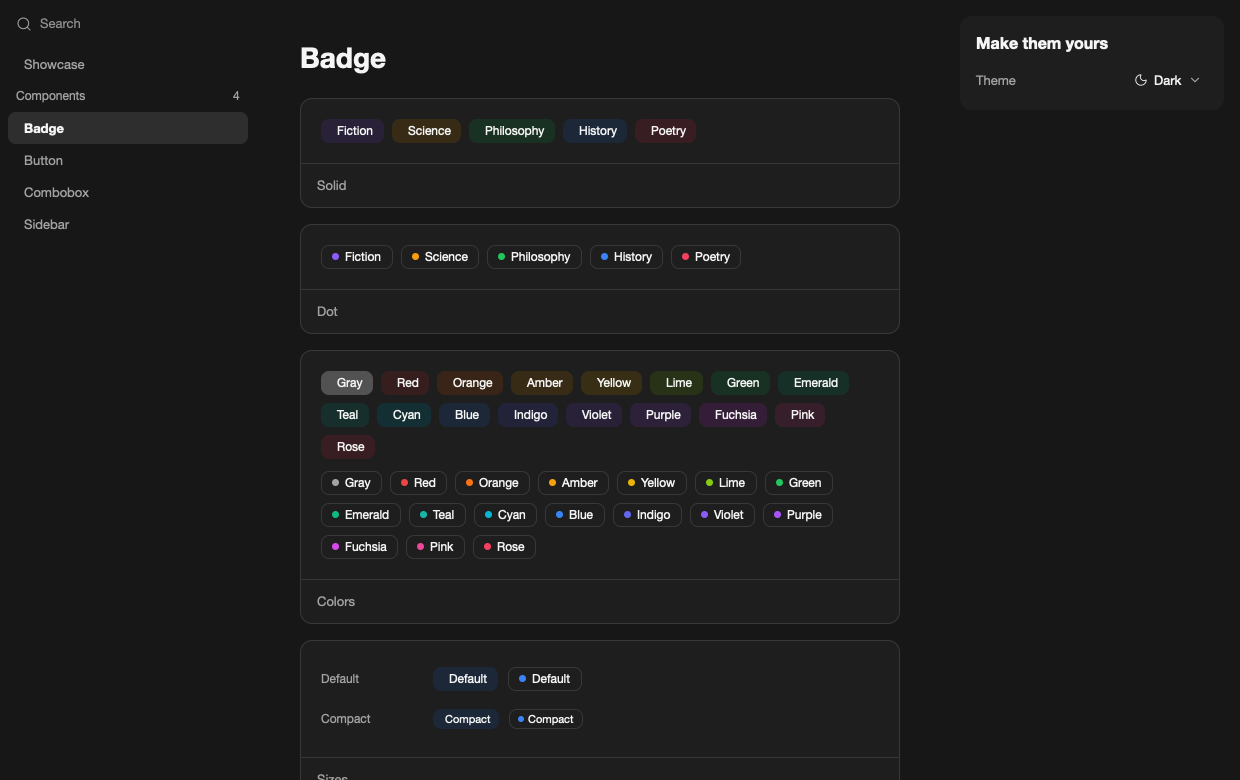
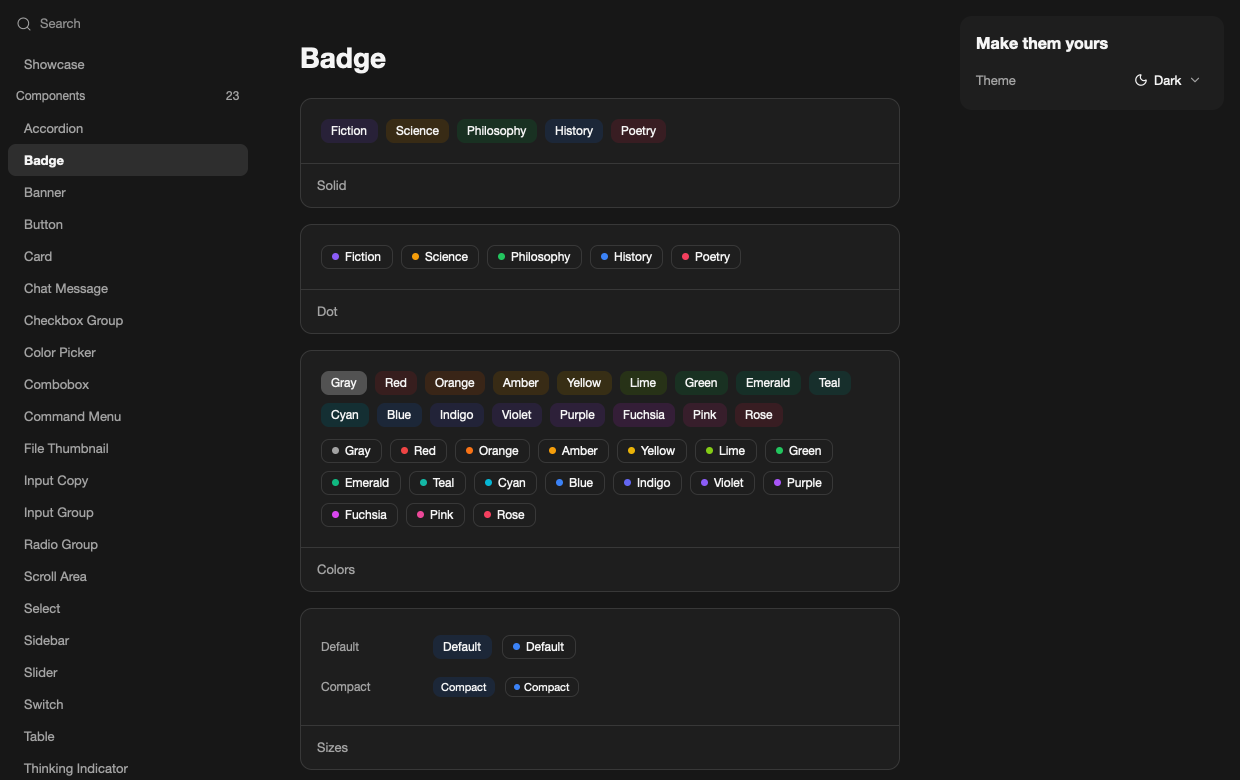
Badge: stop an empty Show marker eating the flex gap

diff --git a/src/components/badge.tsx b/src/components/badge.tsx
@@ -63,23 +63,8 @@ export function Badge(props: {
 			? color.mutedForeground
 			: hue();
 
-	return (
-		<div
-			testId={props.testId}
-			style={{
-				display: "flex",
-				flexDirection: "row",
-				alignItems: "center",
-				flexShrink: 0,
-				height: size().height,
-				paddingLeft: size().padX,
-				paddingRight: size().padX,
-				gap: size().gap,
-				borderRadius: radius.item,
-				backgroundColor: fill(),
-				...(solid() ? {} : { borderWidth: 1, borderColor: color.border }),
-			}}
-		>
+	const content = () => (
+		<>
 			<Show when={!solid()}>
 				<div
 					style={{
@@ -101,6 +86,28 @@ export function Badge(props: {
 			>
 				{props.children}
 			</text>
+		</>
+	);
+
+	return (
+		<div
+			testId={props.testId}
+			style={{
+				display: "flex",
+				flexDirection: "row",
+				alignItems: "center",
+				flexShrink: 0,
+				height: size().height,
+				paddingLeft: size().padX,
+				paddingRight: size().padX,
+				gap: size().gap,
+				borderRadius: radius.item,
+				backgroundColor: fill(),
+				...(solid() ? {} : { borderWidth: 1, borderColor: color.border }),
+			}}
+		>
+			{/* One fragment: a Show among siblings leaves an empty text node that eats a `gap`. */}
+			{content()}
 		</div>
 	);
 }

diff --git a/limitations/badge.md b/limitations/badge.md
@@ -23,3 +23,11 @@ Badge is nearly a pure-style component; it hit only two gaps. Both variants (sol
 ## Pill shape
 
 Not ported, a deliberate scope cut from the plan (rounded only); gpuix has `borderRadius`, so a pill is just a larger radius.
+
+## A `Show` among siblings leaves an empty text node that eats a flex `gap`
+
+- **Original:** `{!isSolid && <span dot/>}` followed by the label: a falsy child renders nothing, so the flex `gap` only separates what is there.
+- **gpuix:** Solid's universal compiler gives every dynamic child that is not the last one a `createTextNode("")` marker, and gpuix lays that empty text node out as a flex item, so each marker adds one `gap`. In the first version of this port every solid badge had its label pushed right by one `gap`. Not a gpuix bug as such (the renderer is doing what the tree says), but a trap for any port of conditional rendering inside a `gap` container.
+- **Workaround:** put the conditional children in one fragment returned from a function (`{content()}`), which makes them a single dynamic child with no marker; or use margins instead of `gap`; or park decorations in one absolute layer.
+- **Fidelity:** exact once worked around.
+- **Components it hits:** every component with a `Show` / ternary among siblings inside a `gap` row or column (card and its parts, button, anything with optional icons).
